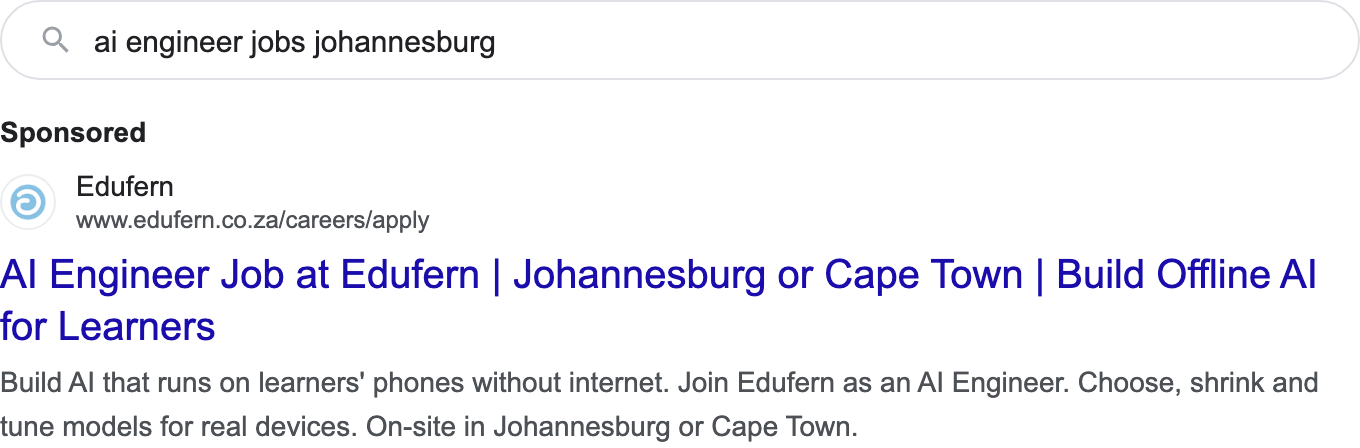
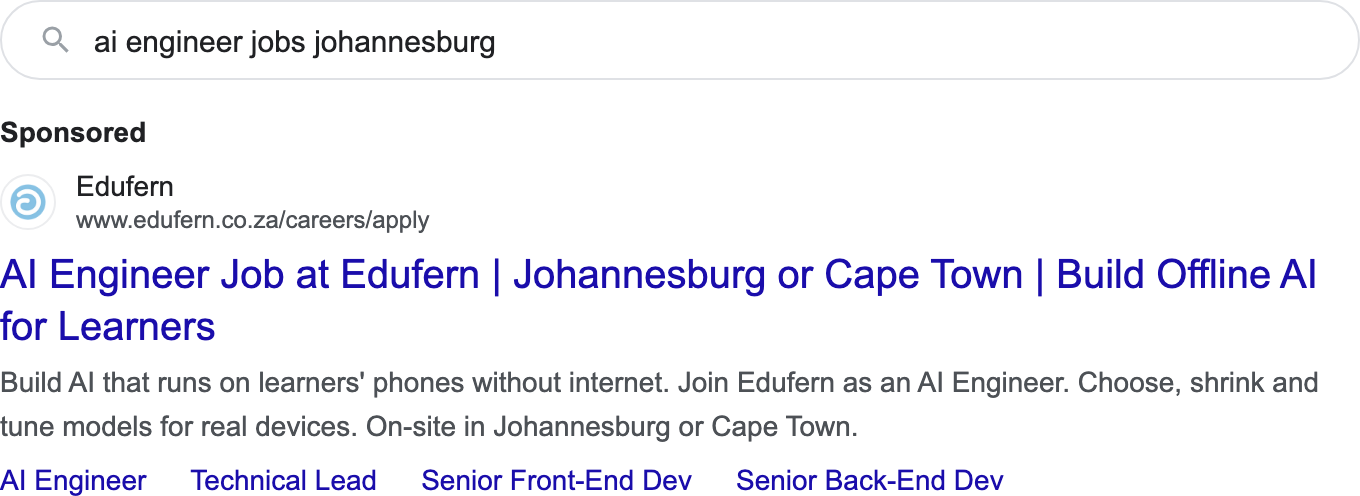
Update: R16 bids, new keywords, negatives, sitelinks, callouts, budget

diff --git a/index.html b/index.html
@@ -48,7 +48,7 @@ footer{color:var(--mut);font-size:13px;margin-top:30px}
   <div class="grid">
     <div><h3>Headlines (15)</h3><table><thead><tr><th>#</th><th>Headline</th><th>Chars</th></tr></thead><tbody><tr><td class='n'>1</td><td>AI Engineer Job at Edufern</td><td class='n'>26/30</td></tr><tr><td class='n'>2</td><td>Now Hiring: AI Engineer</td><td class='n'>23/30</td></tr><tr><td class='n'>3</td><td>On-Device AI Engineer Role</td><td class='n'>26/30</td></tr><tr><td class='n'>4</td><td>Build Offline AI for Learners</td><td class='n'>29/30</td></tr><tr><td class='n'>5</td><td>Johannesburg or Cape Town</td><td class='n'>25/30</td></tr><tr><td class='n'>6</td><td>Senior AI Engineer Vacancy</td><td class='n'>26/30</td></tr><tr><td class='n'>7</td><td>LLMs, RAG and Model Tuning</td><td class='n'>26/30</td></tr><tr><td class='n'>8</td><td>Python, ONNX and llama.cpp</td><td class='n'>26/30</td></tr><tr><td class='n'>9</td><td>EdTech AI Engineer Job</td><td class='n'>22/30</td></tr><tr><td class='n'>10</td><td>Full-Time AI Engineer Role</td><td class='n'>26/30</td></tr><tr><td class='n'>11</td><td>Shape AI in SA Education</td><td class='n'>24/30</td></tr><tr><td class='n'>12</td><td>Apply Online in Minutes</td><td class='n'>23/30</td></tr><tr><td class='n'>13</td><td>5+ Years&#x27; Experience Needed</td><td class='n'>27/30</td></tr><tr><td class='n'>14</td><td>We Use Claude Code Daily</td><td class='n'>24/30</td></tr><tr><td class='n'>15</td><td>Join Edufern&#x27;s Dev Team</td><td class='n'>23/30</td></tr></tbody></table></div>
     <div><h3>Descriptions (4)</h3><table><thead><tr><th>#</th><th>Description</th><th>Chars</th></tr></thead><tbody><tr><td class='n'>1</td><td>Build AI that runs on learners&#x27; phones without internet. Join Edufern as an AI Engineer.</td><td class='n'>88/90</td></tr><tr><td class='n'>2</td><td>Choose, shrink and tune models for real devices. On-site in Johannesburg or Cape Town.</td><td class='n'>86/90</td></tr><tr><td class='n'>3</td><td>5+ years building software, 2+ shipping AI features. Strong Python. Apply online today.</td><td class='n'>87/90</td></tr><tr><td class='n'>4</td><td>Help bring offline AI to South African schools. Read the role and apply on our site.</td><td class='n'>84/90</td></tr></tbody></table>
-    <h3>Keywords (13, phrase match, max R12 a click)</h3><ul class="kw"><li>"ai engineer jobs"</li><li>"ai engineer job"</li><li>"ai engineer vacancies"</li><li>"ai engineer south africa"</li><li>"ai engineer johannesburg"</li><li>"ai engineer cape town"</li><li>"machine learning engineer jobs"</li><li>"ml engineer jobs"</li><li>"llm engineer jobs"</li><li>"ai developer jobs"</li><li>"ai jobs south africa"</li><li>"machine learning jobs johannesburg"</li><li>"machine learning jobs cape town"</li></ul></div>
+    <h3>Keywords (14, phrase match, max R16 a click)</h3><ul class="kw"><li>"ai engineer jobs"</li><li>"ai engineer job"</li><li>"ai engineer vacancies"</li><li>"ai engineer south africa"</li><li>"ai engineer johannesburg"</li><li>"ai engineer cape town"</li><li>"machine learning engineer jobs"</li><li>"ml engineer jobs"</li><li>"llm engineer jobs"</li><li>"ai developer jobs"</li><li>"ai jobs south africa"</li><li>"machine learning jobs"</li><li>"machine learning jobs johannesburg"</li><li>"machine learning jobs cape town"</li></ul></div>
   </div>
 </section>
 <section id="technical-lead">
@@ -61,7 +61,7 @@ footer{color:var(--mut);font-size:13px;margin-top:30px}
   <div class="grid">
     <div><h3>Headlines (15)</h3><table><thead><tr><th>#</th><th>Headline</th><th>Chars</th></tr></thead><tbody><tr><td class='n'>1</td><td>Technical Lead Job - Edufern</td><td class='n'>28/30</td></tr><tr><td class='n'>2</td><td>Now Hiring: Technical Lead</td><td class='n'>26/30</td></tr><tr><td class='n'>3</td><td>Lead Our .NET Dev Team</td><td class='n'>22/30</td></tr><tr><td class='n'>4</td><td>C#, .NET MAUI and Blazor</td><td class='n'>24/30</td></tr><tr><td class='n'>5</td><td>Johannesburg or Cape Town</td><td class='n'>25/30</td></tr><tr><td class='n'>6</td><td>Senior Tech Lead Vacancy</td><td class='n'>24/30</td></tr><tr><td class='n'>7</td><td>7+ Years&#x27; Experience Needed</td><td class='n'>27/30</td></tr><tr><td class='n'>8</td><td>Lead an EdTech Dev Team</td><td class='n'>23/30</td></tr><tr><td class='n'>9</td><td>Own Our Architecture</td><td class='n'>20/30</td></tr><tr><td class='n'>10</td><td>Hands-On Technical Lead</td><td class='n'>23/30</td></tr><tr><td class='n'>11</td><td>Full-Time or Contract Role</td><td class='n'>26/30</td></tr><tr><td class='n'>12</td><td>Apply Online in Minutes</td><td class='n'>23/30</td></tr><tr><td class='n'>13</td><td>Mentor Talented Developers</td><td class='n'>26/30</td></tr><tr><td class='n'>14</td><td>Build Tech for SA Schools</td><td class='n'>25/30</td></tr><tr><td class='n'>15</td><td>Join Edufern&#x27;s Dev Team</td><td class='n'>23/30</td></tr></tbody></table></div>
     <div><h3>Descriptions (4)</h3><table><thead><tr><th>#</th><th>Description</th><th>Chars</th></tr></thead><tbody><tr><td class='n'>1</td><td>Lead Edufern&#x27;s development team building learning apps for South African schools.</td><td class='n'>81/90</td></tr><tr><td class='n'>2</td><td>Hands-on: C#, .NET, Blazor, MAUI and SQL Server. On-site in Johannesburg or Cape Town.</td><td class='n'>86/90</td></tr><tr><td class='n'>3</td><td>7+ years building production software, including owning architecture. Apply online.</td><td class='n'>83/90</td></tr><tr><td class='n'>4</td><td>Set technical direction, review code and grow the team. Read the role and apply online.</td><td class='n'>87/90</td></tr></tbody></table>
-    <h3>Keywords (12, phrase match, max R12 a click)</h3><ul class="kw"><li>"technical lead jobs"</li><li>"technical lead vacancies"</li><li>"tech lead jobs"</li><li>"lead developer jobs"</li><li>"software team lead jobs"</li><li>"development team lead jobs"</li><li>"software development lead jobs"</li><li>".net technical lead"</li><li>"technical lead johannesburg"</li><li>"tech lead johannesburg"</li><li>"technical lead cape town"</li><li>"tech lead cape town"</li></ul></div>
+    <h3>Keywords (12, phrase match, max R16 a click)</h3><ul class="kw"><li>"technical lead jobs"</li><li>"technical lead vacancies"</li><li>"tech lead jobs"</li><li>"lead developer jobs"</li><li>"software team lead jobs"</li><li>"development team lead jobs"</li><li>"software development lead jobs"</li><li>".net technical lead"</li><li>"technical lead johannesburg"</li><li>"tech lead johannesburg"</li><li>"technical lead cape town"</li><li>"tech lead cape town"</li></ul></div>
   </div>
 </section>
 <section id="senior-front-end">
@@ -74,7 +74,7 @@ footer{color:var(--mut);font-size:13px;margin-top:30px}
   <div class="grid">
     <div><h3>Headlines (15)</h3><table><thead><tr><th>#</th><th>Headline</th><th>Chars</th></tr></thead><tbody><tr><td class='n'>1</td><td>Senior Front-End Dev Job</td><td class='n'>24/30</td></tr><tr><td class='n'>2</td><td>Senior Full-Stack Developer</td><td class='n'>27/30</td></tr><tr><td class='n'>3</td><td>Now Hiring: Senior Developer</td><td class='n'>28/30</td></tr><tr><td class='n'>4</td><td>Blazor and .NET MAUI Role</td><td class='n'>25/30</td></tr><tr><td class='n'>5</td><td>Johannesburg or Cape Town</td><td class='n'>25/30</td></tr><tr><td class='n'>6</td><td>React or Vue? Apply Anyway</td><td class='n'>26/30</td></tr><tr><td class='n'>7</td><td>Build Apps for SA Learners</td><td class='n'>26/30</td></tr><tr><td class='n'>8</td><td>Senior Full-Stack Vacancy</td><td class='n'>25/30</td></tr><tr><td class='n'>9</td><td>Front-End Focused Role</td><td class='n'>22/30</td></tr><tr><td class='n'>10</td><td>We Use Claude Code Daily</td><td class='n'>24/30</td></tr><tr><td class='n'>11</td><td>Full-Time or Contract Role</td><td class='n'>26/30</td></tr><tr><td class='n'>12</td><td>Apply Online in Minutes</td><td class='n'>23/30</td></tr><tr><td class='n'>13</td><td>EdTech Developer Job</td><td class='n'>20/30</td></tr><tr><td class='n'>14</td><td>Join Edufern&#x27;s Dev Team</td><td class='n'>23/30</td></tr><tr><td class='n'>15</td><td>5+ Years&#x27; Experience Needed</td><td class='n'>27/30</td></tr></tbody></table></div>
     <div><h3>Descriptions (4)</h3><table><thead><tr><th>#</th><th>Description</th><th>Chars</th></tr></thead><tbody><tr><td class='n'>1</td><td>Build learning apps used by South African learners. Senior full-stack, front-end focus.</td><td class='n'>87/90</td></tr><tr><td class='n'>2</td><td>Blazor and .NET MAUI. React, Vue or Angular devs welcome, and we&#x27;ll help you switch.</td><td class='n'>84/90</td></tr><tr><td class='n'>3</td><td>On-site in Johannesburg (Norwood) or Cape Town. Full-time or contract. Apply online.</td><td class='n'>84/90</td></tr><tr><td class='n'>4</td><td>Senior developers who ship fast with AI coding tools. Read the role and apply on our site.</td><td class='n'>90/90</td></tr></tbody></table>
-    <h3>Keywords (12, phrase match, max R12 a click)</h3><ul class="kw"><li>"senior full stack developer jobs"</li><li>"full stack developer vacancies"</li><li>"full stack developer jobs johannesburg"</li><li>"full stack developer jobs cape town"</li><li>"senior front end developer jobs"</li><li>"senior frontend developer jobs"</li><li>"front end developer vacancies"</li><li>"front end developer jobs johannesburg"</li><li>"front end developer jobs cape town"</li><li>"senior react developer jobs"</li><li>"blazor developer jobs"</li><li>"maui developer jobs"</li></ul></div>
+    <h3>Keywords (16, phrase match, max R16 a click)</h3><ul class="kw"><li>"senior full stack developer jobs"</li><li>"full stack developer vacancies"</li><li>"full stack developer jobs johannesburg"</li><li>"full stack developer jobs cape town"</li><li>"senior front end developer jobs"</li><li>"senior frontend developer jobs"</li><li>"front end developer vacancies"</li><li>"front end developer jobs johannesburg"</li><li>"front end developer jobs cape town"</li><li>"senior react developer jobs"</li><li>"blazor developer jobs"</li><li>"maui developer jobs"</li><li>"front end developer jobs"</li><li>"frontend developer jobs"</li><li>"full stack developer jobs"</li><li>"react developer jobs"</li></ul></div>
   </div>
 </section>
 <section id="senior-back-end">
@@ -87,7 +87,7 @@ footer{color:var(--mut);font-size:13px;margin-top:30px}
   <div class="grid">
     <div><h3>Headlines (15)</h3><table><thead><tr><th>#</th><th>Headline</th><th>Chars</th></tr></thead><tbody><tr><td class='n'>1</td><td>Senior .NET Developer Job</td><td class='n'>25/30</td></tr><tr><td class='n'>2</td><td>Senior Back-End Developer</td><td class='n'>25/30</td></tr><tr><td class='n'>3</td><td>Now Hiring: C# Developer</td><td class='n'>24/30</td></tr><tr><td class='n'>4</td><td>ASP.NET Core and SQL Server</td><td class='n'>27/30</td></tr><tr><td class='n'>5</td><td>Johannesburg or Cape Town</td><td class='n'>25/30</td></tr><tr><td class='n'>6</td><td>Senior Full-Stack Vacancy</td><td class='n'>25/30</td></tr><tr><td class='n'>7</td><td>Back-End Focused Role</td><td class='n'>21/30</td></tr><tr><td class='n'>8</td><td>Build APIs for EdTech Apps</td><td class='n'>26/30</td></tr><tr><td class='n'>9</td><td>Full-Time or Contract Role</td><td class='n'>26/30</td></tr><tr><td class='n'>10</td><td>Apply Online in Minutes</td><td class='n'>23/30</td></tr><tr><td class='n'>11</td><td>EdTech Developer Job</td><td class='n'>20/30</td></tr><tr><td class='n'>12</td><td>Join Edufern&#x27;s Dev Team</td><td class='n'>23/30</td></tr><tr><td class='n'>13</td><td>We Use Claude Code Daily</td><td class='n'>24/30</td></tr><tr><td class='n'>14</td><td>C#, .NET and EF Core Role</td><td class='n'>25/30</td></tr><tr><td class='n'>15</td><td>Build Tech for SA Schools</td><td class='n'>25/30</td></tr></tbody></table></div>
     <div><h3>Descriptions (4)</h3><table><thead><tr><th>#</th><th>Description</th><th>Chars</th></tr></thead><tbody><tr><td class='n'>1</td><td>Build the APIs and data behind Edufern&#x27;s learning apps. Senior full-stack, back-end focus.</td><td class='n'>90/90</td></tr><tr><td class='n'>2</td><td>C#, ASP.NET Core, EF Core and SQL Server on our own servers. On-site in JHB or Cape Town.</td><td class='n'>89/90</td></tr><tr><td class='n'>3</td><td>5+ years building and running back-end systems in production. Full-time or contract.</td><td class='n'>84/90</td></tr><tr><td class='n'>4</td><td>Senior developers who ship fast with AI coding tools. Read the role and apply on our site.</td><td class='n'>90/90</td></tr></tbody></table>
-    <h3>Keywords (12, phrase match, max R12 a click)</h3><ul class="kw"><li>"senior .net developer jobs"</li><li>"senior c# developer"</li><li>"c# developer jobs"</li><li>"c# developer vacancies"</li><li>".net developer vacancies"</li><li>".net developer jobs johannesburg"</li><li>".net developer jobs cape town"</li><li>"asp.net core developer jobs"</li><li>"back end developer jobs"</li><li>"senior backend developer jobs"</li><li>"backend developer jobs johannesburg"</li><li>"backend developer jobs cape town"</li></ul></div>
+    <h3>Keywords (18, phrase match, max R16 a click)</h3><ul class="kw"><li>"senior .net developer jobs"</li><li>"senior c# developer"</li><li>"c# developer jobs"</li><li>"c# developer vacancies"</li><li>".net developer vacancies"</li><li>".net developer jobs johannesburg"</li><li>".net developer jobs cape town"</li><li>"asp.net core developer jobs"</li><li>"back end developer jobs"</li><li>"senior backend developer jobs"</li><li>"backend developer jobs johannesburg"</li><li>"backend developer jobs cape town"</li><li>".net developer jobs"</li><li>"backend developer jobs"</li><li>"software developer jobs"</li><li>"software engineer jobs"</li><li>"developer jobs"</li><li>"programming jobs"</li></ul></div>
   </div>
 </section>
 
@@ -98,14 +98,14 @@ footer{color:var(--mut);font-size:13px;margin-top:30px}
     <dt>Status</dt><dd>Paused. Nothing is spending until it's approved.</dd>
     <dt>Where ads show</dt><dd>Google Search only (no Display, no YouTube, no search partners)</dd>
     <dt>Locations</dt><dd>Gauteng and City of Cape Town</dd>
-    <dt>Daily budget</dt><dd>R40 a day across all four roles, paid from the Google promo credit (about R850 over 3 weeks)</dd>
-    <dt>Bidding</dt><dd>Manual: up to R12 a click</dd>
+    <dt>Daily budget</dt><dd>Capped at R250 a day across all four roles, paid from the Google promo credit. Google's forecast is that these searches will only use about R150 a day (roughly R1,000 and 90 clicks a week) because few people in JHB and Cape Town search for these jobs.</dd>
+    <dt>Bidding</dt><dd>Manual: up to R16 a click. Google's suggested top-of-page bid for these terms is about R15.</dd>
     <dt>Tracking</dt><dd>Every click is tagged <code>utm_campaign=recruit_senior_devs_2026</code>, so Google visits show separately in the site's analytics</dd>
-    <dt>Older junior ads</dt><dd>The two earlier junior-developer ad groups are paused (not deleted)</dd>
+    <dt>Sitelinks</dt><dd>All four roles appear as links under every ad: AI Engineer, Technical Lead, Senior Front-End Dev, Senior Back-End Dev</dd><dt>Callouts</dt><dd>On-Site JHB or Cape Town · 4 Senior Roles Open · Apply Online in Minutes · AI Coding Tools Daily · EdTech for SA Schools</dd><dt>Older junior ads</dt><dd>The two earlier junior-developer ad groups are paused (not deleted)</dd>
   </dl>
   <h3>Searches we block (negative keywords)</h3>
   <p class="meta" style="margin-bottom:10px">Ads won't show when a search contains any of these words. This keeps junior, course and salary-research searches from using the budget.</p>
-  <ul class="neg"><li>free</li><li>uk</li><li>usa</li><li>tutorial</li><li>services</li><li>graduate</li><li>junior</li><li>remote</li><li>course</li><li>courses</li><li>certification</li><li>hire</li><li>bootcamp</li><li>agency</li><li>salary</li><li>salaries</li><li>learn</li><li>internship</li><li>learnership</li><li>durban</li><li>roadmap</li><li>unpaid</li><li>upwork</li><li>fiverr</li><li>udemy</li><li>work from home <span>(phrase)</span></li><li>what is <span>(phrase)</span></li><li>cv template <span>(phrase)</span></li><li>entry level <span>(phrase)</span></li><li>interview questions <span>(phrase)</span></li></ul>
+  <ul class="neg"><li>free</li><li>uk</li><li>usa</li><li>tutorial</li><li>services</li><li>graduate</li><li>junior</li><li>remote</li><li>course</li><li>courses</li><li>certification</li><li>hire</li><li>bootcamp</li><li>agency</li><li>salary</li><li>salaries</li><li>learn</li><li>internship</li><li>learnership</li><li>durban</li><li>roadmap</li><li>unpaid</li><li>upwork</li><li>fiverr</li><li>udemy</li><li>work from home <span>(phrase)</span></li><li>what is <span>(phrase)</span></li><li>cv template <span>(phrase)</span></li><li>property</li><li>construction</li><li>matric</li><li>matriculants</li><li>learnerships</li><li>internships</li><li>graduates</li><li>interns</li><li>freelance</li><li>abroad</li><li>overseas</li><li>canada</li><li>australia</li><li>dubai</li><li>germany</li><li>beginners</li><li>unisa</li><li>volunteer</li><li>property developer <span>(phrase)</span></li><li>real estate <span>(phrase)</span></li><li>no experience <span>(phrase)</span></li><li>part time <span>(phrase)</span></li><li>data entry <span>(phrase)</span></li><li>for beginners <span>(phrase)</span></li><li>without degree <span>(phrase)</span></li><li>without experience <span>(phrase)</span></li><li>entry level <span>(phrase)</span></li><li>interview questions <span>(phrase)</span></li></ul>
 </section>
 
 <footer>The ad previews are mock-ups that show how each ad will look in Google results. They're not screenshots of live ads.</footer>
